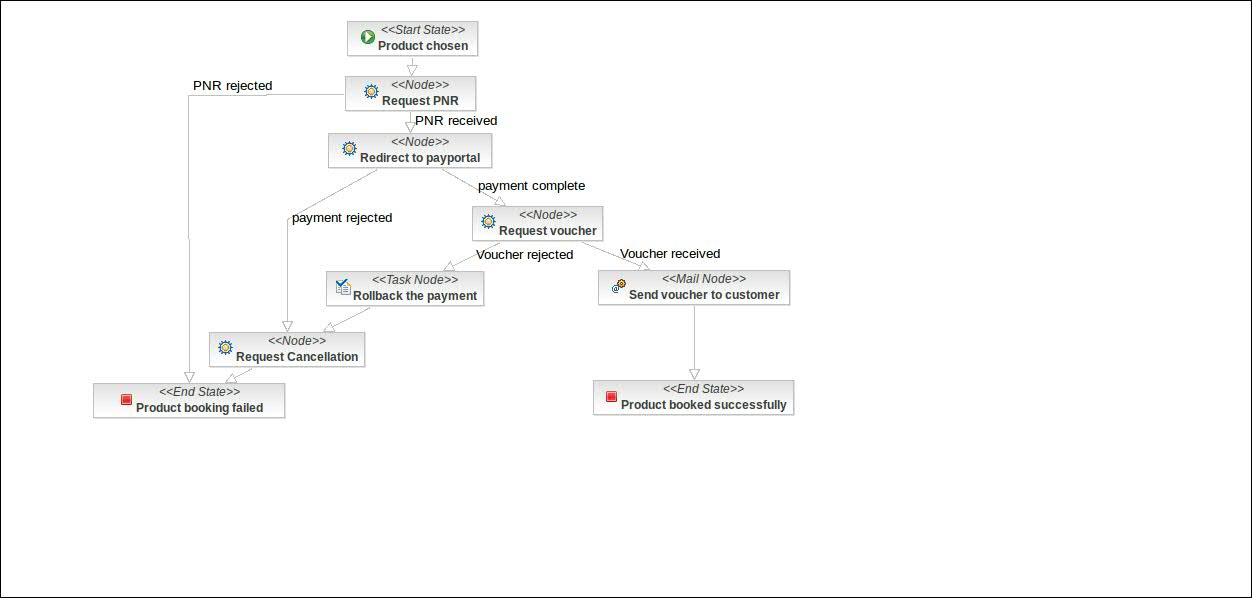
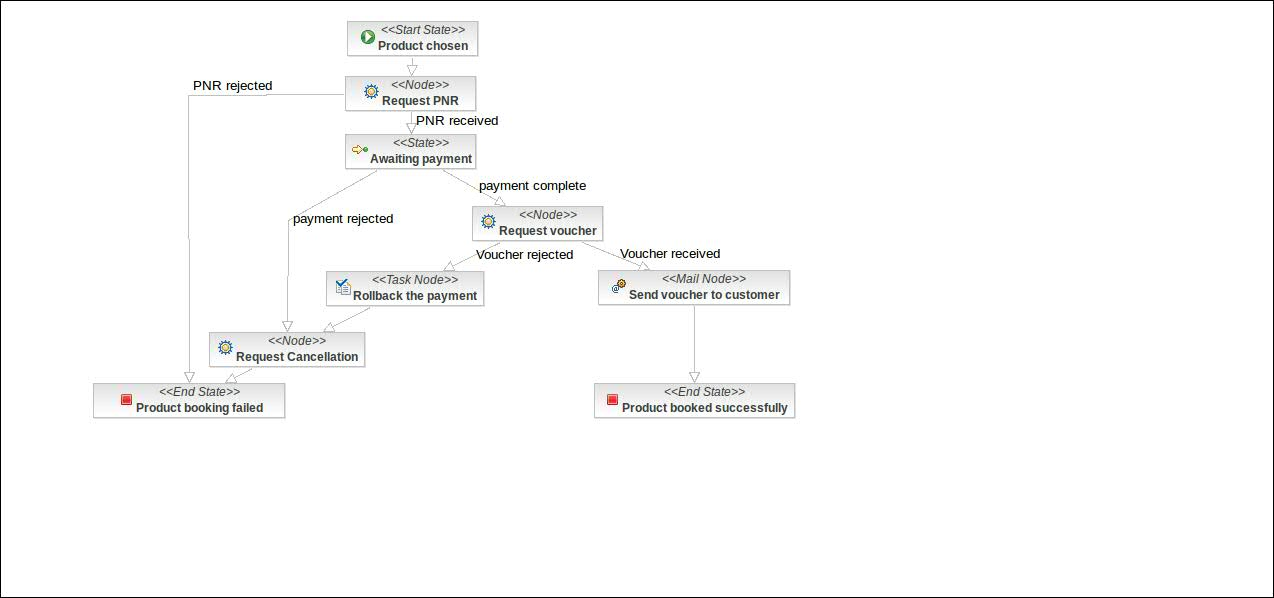
"awaiting payment" replaced with state node

diff --git a/jbpm-examples/src/test/java/edu/leti/jbpm/VoucherRejectedTest.java b/jbpm-examples/src/test/java/edu/leti/jbpm/VoucherRejectedTest.java
@@ -14,6 +14,7 @@ import org.jbpm.graph.exe.ProcessInstance;
 import org.jbpm.taskmgmt.exe.TaskInstance;
 import org.testng.annotations.Test;
 
+import edu.leti.jbpm.handlers.PayPortal;
 import edu.leti.jbpm.stub.ChaosMonkey;
 
 /**
@@ -45,7 +46,6 @@ public class VoucherRejectedTest extends ProcessTest {
             @Override
             public void makeAssertions( final ProcessInstance freshInstance ) {
                 assertEquals( freshInstance.getContextInstance().getVariable( Variables.PNR ), "PNR1" );
-                assertEquals( freshInstance.getRootToken().getNode().getName(), "Redirect to payportal" );
             }
         } );
     }
@@ -55,6 +55,9 @@ public class VoucherRejectedTest extends ProcessTest {
         final JbpmContext context = configuration.createJbpmContext();
         try {
             final ProcessInstance instance = context.loadProcessInstance( processId );
+
+            PayPortal.P.doRedirect( instance );
+
             instance.signal( Transitions.PAYMENT_COMPLETE );
         } finally {
             context.close();
@@ -64,10 +67,9 @@ public class VoucherRejectedTest extends ProcessTest {
         makeAssertions( processId, new ProcessAssertions() {
             @Override
             public void makeAssertions( final ProcessInstance freshInstance ) {
-                final ContextInstance contextInstance = freshInstance.getContextInstance();
-                assert !contextInstance.hasVariable( Variables.VOUCHER_ID ) : contextInstance
-                        .getVariable( Variables.VOUCHER_ID );
+                final ContextInstance ctx = freshInstance.getContextInstance();
 
+                assert !ctx.hasVariable( Variables.VOUCHER_ID ) : ctx.getVariable( Variables.VOUCHER_ID );
                 assertEquals( freshInstance.getRootToken().getNode().getName(), "Rollback the payment" );
             }
         } );
@@ -76,8 +78,9 @@ public class VoucherRejectedTest extends ProcessTest {
     @Test( dependsOnMethods = "completePayment" )
     public void completePaymentRollbackTask() throws Exception {
         final JbpmContext context = configuration.createJbpmContext();
+
+        final String actorId = "Agent";
         try {
-            final String actorId = "Agent";
             @SuppressWarnings( "unchecked" )
             final List<TaskInstance> taskList = context.getTaskList( actorId );
             assertEquals( taskList.size(), 1 );

diff --git a/jbpm-examples/src/test/java/edu/leti/jbpm/SuccessfulProcessTest.java b/jbpm-examples/src/test/java/edu/leti/jbpm/SuccessfulProcessTest.java
@@ -9,6 +9,7 @@ import org.jbpm.context.exe.ContextInstance;
 import org.jbpm.graph.exe.ProcessInstance;
 import org.testng.annotations.Test;
 
+import edu.leti.jbpm.handlers.PayPortal;
 import edu.leti.jbpm.stub.ChaosMonkey;
 
 /** @author eav Date: 23.07.11 Time: 0:08 */
@@ -38,7 +39,7 @@ public class SuccessfulProcessTest extends ProcessTest {
             @Override
             public void makeAssertions( final ProcessInstance freshInstance ) {
                 assertEquals( freshInstance.getContextInstance().getVariable( Variables.PNR ), "PNR1" );
-                assertEquals( freshInstance.getRootToken().getNode().getName(), "Redirect to payportal" );
+
             }
         } );
     }
@@ -48,6 +49,9 @@ public class SuccessfulProcessTest extends ProcessTest {
         final JbpmContext context = configuration.createJbpmContext();
         try {
             final ProcessInstance instance = context.loadProcessInstance( processId );
+
+            PayPortal.P.doRedirect( instance );
+
             instance.signal( Transitions.PAYMENT_COMPLETE );
         } finally {
             context.close();

diff --git a/jbpm-examples/src/main/java/edu/leti/jbpm/handlers/PayPortal.java b/jbpm-examples/src/main/java/edu/leti/jbpm/handlers/PayPortal.java
@@ -1,0 +1,33 @@
+/**
+ * 
+ */
+package edu.leti.jbpm.handlers;
+
+import java.util.concurrent.TimeUnit;
+
+import org.jbpm.context.exe.ContextInstance;
+import org.jbpm.graph.exe.ProcessInstance;
+import org.slf4j.Logger;
+import org.slf4j.LoggerFactory;
+
+import edu.leti.jbpm.Variables;
+
+/**
+ * @author eav 2011
+ */
+public enum PayPortal {
+    P;
+    private static final Logger log = LoggerFactory.getLogger( PayPortal.class );
+
+    public void doRedirect( final ProcessInstance instance ) throws InterruptedException {
+        final String currentNodeName = instance.getRootToken().getNode().getName();
+        assert currentNodeName.equals( "Awaiting payment" ) : currentNodeName;
+
+        final ContextInstance contextInstance = instance.getContextInstance();
+        final long productId = (Long) contextInstance.getVariable( Variables.PRODUCT_ID );
+        final String pnr = (String) contextInstance.getVariable( Variables.PNR );
+        log.info( "redirecting to pay portal with product={}, pnr={}", productId, pnr );
+
+        TimeUnit.SECONDS.sleep( 5 );
+    }
+}

diff --git a/jbpm-examples/src/test/java/edu/leti/jbpm/PaymentRejectedTest.java b/jbpm-examples/src/test/java/edu/leti/jbpm/PaymentRejectedTest.java
@@ -12,6 +12,8 @@ import org.jbpm.context.exe.ContextInstance;
 import org.jbpm.graph.exe.ProcessInstance;
 import org.testng.annotations.Test;
 
+import edu.leti.jbpm.handlers.PayPortal;
+
 /**
  * @author eav 2011
  */
@@ -41,7 +43,6 @@ public class PaymentRejectedTest extends ProcessTest {
             @Override
             public void makeAssertions( final ProcessInstance freshInstance ) {
                 assertEquals( freshInstance.getContextInstance().getVariable( Variables.PNR ), "PNR1" );
-                assertEquals( freshInstance.getRootToken().getNode().getName(), "Redirect to payportal" );
             }
         } );
     }
@@ -51,6 +52,9 @@ public class PaymentRejectedTest extends ProcessTest {
         final JbpmContext context = configuration.createJbpmContext();
         try {
             final ProcessInstance instance = context.loadProcessInstance( processId );
+
+            PayPortal.P.doRedirect( instance );
+
             instance.signal( Transitions.PAYMENT_REJECTED );
         } finally {
             context.close();

diff --git a/jbpm-examples/src/test/java/edu/leti/jbpm/PnrRejectedTest.java b/jbpm-examples/src/test/java/edu/leti/jbpm/PnrRejectedTest.java
@@ -43,6 +43,7 @@ public class PnrRejectedTest extends ProcessTest {
             @Override
             public void makeAssertions( final ProcessInstance freshInstance ) {
                 final ContextInstance contextInstance = freshInstance.getContextInstance();
+
                 assert !contextInstance.hasVariable( Variables.PNR ) : contextInstance.getVariable( Variables.PNR );
                 assertEquals( freshInstance.getRootToken().getNode().getName(), "Product booking failed" );
                 assert freshInstance.hasEnded();
